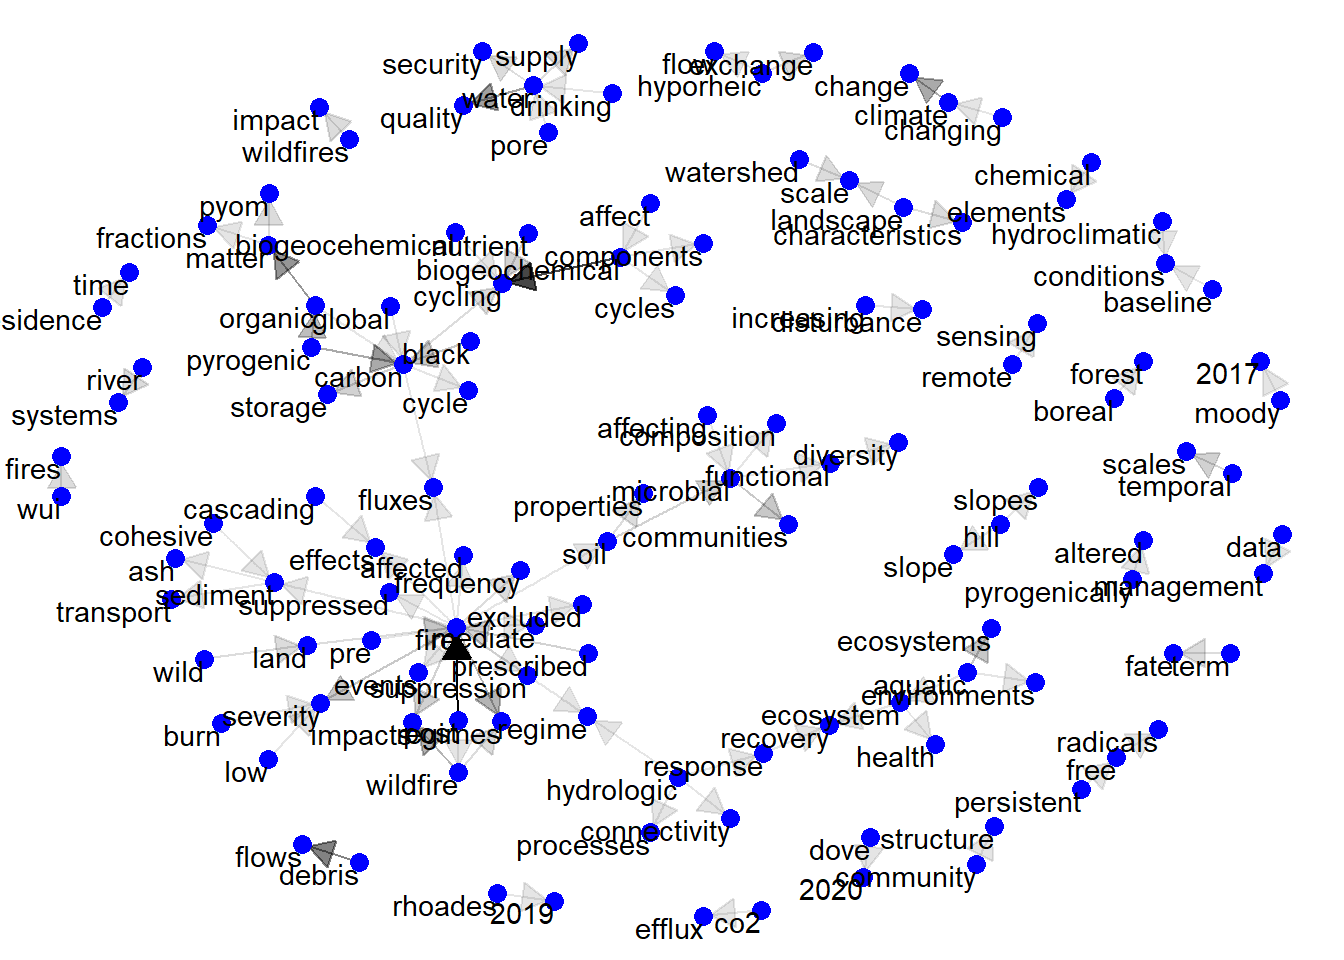
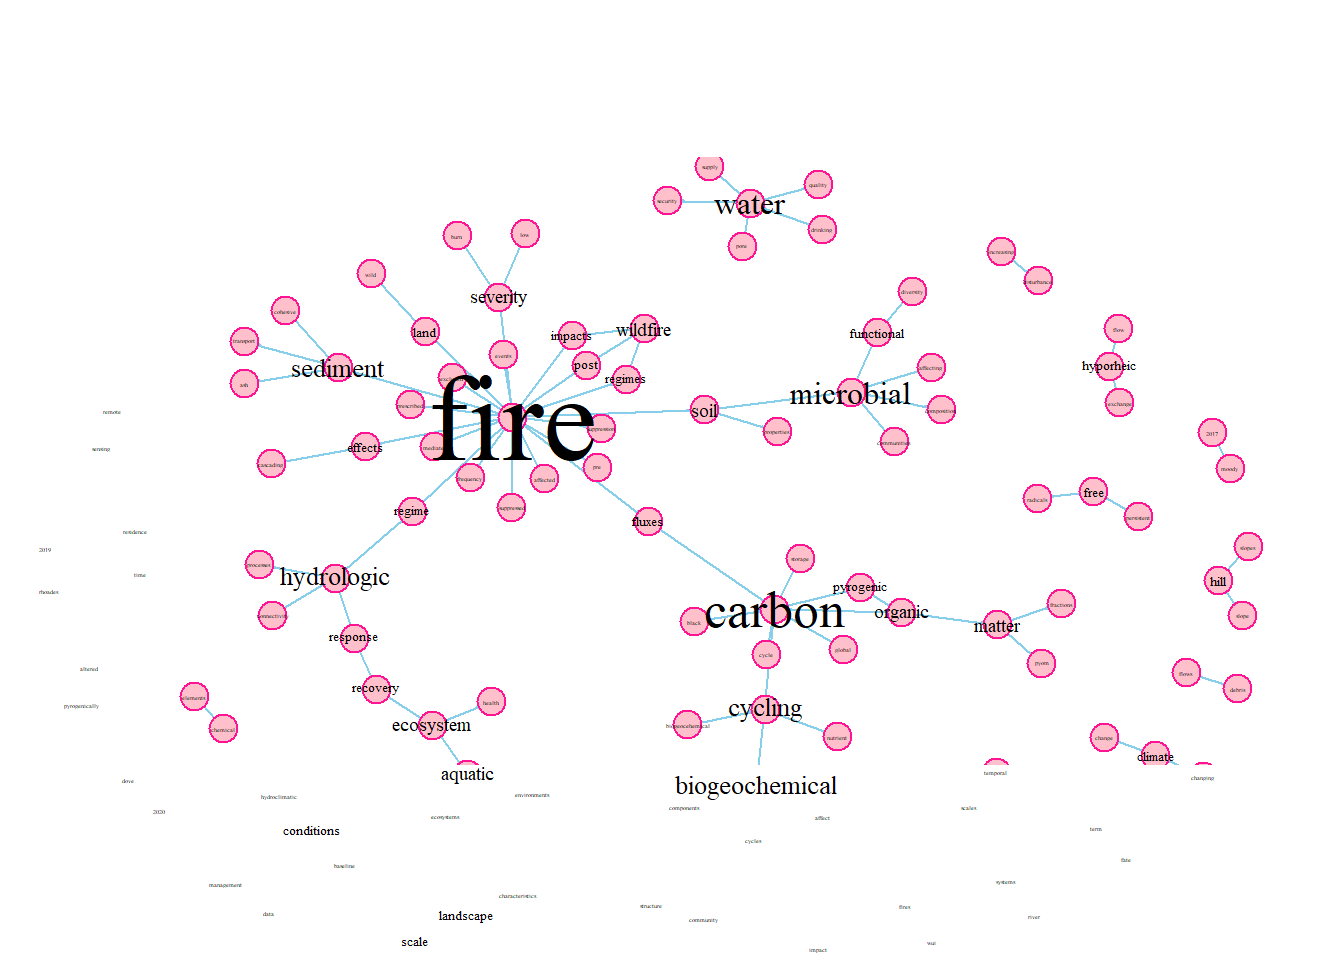
Updates in network plotting

diff --git a/wildfires_watersheds_rdocs/docs/eda_text.html b/wildfires_watersheds_rdocs/docs/eda_text.html
@@ -731,14 +731,26 @@ What is the role of hyporheic flow through wildfire-deposited or reworked sedime
 <section id="visualizing-a-network-of-bigrams-with-ggraph" class="level3">
 <h3 class="anchored" data-anchor-id="visualizing-a-network-of-bigrams-with-ggraph">Visualizing a network of bigrams with <code>ggraph</code></h3>
 <div class="cell">
-<div class="sourceCode cell-code" id="cb11"><pre class="sourceCode r code-with-copy"><code class="sourceCode r"><span id="cb11-1"><a href="#cb11-1" aria-hidden="true" tabindex="-1"></a>bigram_graph <span class="ot">&lt;-</span> pq_digrams <span class="sc">%&gt;%</span></span>
-<span id="cb11-2"><a href="#cb11-2" aria-hidden="true" tabindex="-1"></a>  <span class="fu">filter</span>(rank <span class="sc">&lt;</span> <span class="dv">101</span>) <span class="sc">%&gt;%</span></span>
-<span id="cb11-3"><a href="#cb11-3" aria-hidden="true" tabindex="-1"></a>  <span class="fu">graph_from_data_frame</span>()</span>
-<span id="cb11-4"><a href="#cb11-4" aria-hidden="true" tabindex="-1"></a>bigram_graph</span></code><button title="Copy to Clipboard" class="code-copy-button"><i class="bi"></i></button></pre></div>
+<div class="sourceCode cell-code" id="cb11"><pre class="sourceCode r code-with-copy"><code class="sourceCode r"><span id="cb11-1"><a href="#cb11-1" aria-hidden="true" tabindex="-1"></a><span class="fu">library</span>(igraph)</span>
+<span id="cb11-2"><a href="#cb11-2" aria-hidden="true" tabindex="-1"></a><span class="fu">library</span>(graphlayouts)</span>
+<span id="cb11-3"><a href="#cb11-3" aria-hidden="true" tabindex="-1"></a><span class="fu">library</span>(qgraph)</span></code><button title="Copy to Clipboard" class="code-copy-button"><i class="bi"></i></button></pre></div>
+<div class="cell-output cell-output-stderr">
+<pre><code>
+Attaching package: 'qgraph'</code></pre>
+</div>
+<div class="cell-output cell-output-stderr">
+<pre><code>The following object is masked from 'package:ggraph':
+
+    qgraph</code></pre>
+</div>
+<div class="sourceCode cell-code" id="cb14"><pre class="sourceCode r code-with-copy"><code class="sourceCode r"><span id="cb14-1"><a href="#cb14-1" aria-hidden="true" tabindex="-1"></a>bigram_graph <span class="ot">&lt;-</span> pq_digrams <span class="sc">%&gt;%</span></span>
+<span id="cb14-2"><a href="#cb14-2" aria-hidden="true" tabindex="-1"></a>  <span class="fu">filter</span>(rank <span class="sc">&lt;</span> <span class="dv">101</span>) <span class="sc">%&gt;%</span></span>
+<span id="cb14-3"><a href="#cb14-3" aria-hidden="true" tabindex="-1"></a>  <span class="fu">graph_from_data_frame</span>()</span>
+<span id="cb14-4"><a href="#cb14-4" aria-hidden="true" tabindex="-1"></a>bigram_graph</span></code><button title="Copy to Clipboard" class="code-copy-button"><i class="bi"></i></button></pre></div>
 <div class="cell-output cell-output-stdout">
-<pre><code>IGRAPH a294d09 DN-- 123 100 -- 
+<pre><code>IGRAPH 3409478 DN-- 123 100 -- 
 + attr: name (v/c), n (e/n), rank (e/n), total (e/n), t_freq (e/n)
-+ edges from a294d09 (vertex names):
++ edges from 3409478 (vertex names):
  [1] post          -&gt;fire        biogeochemical-&gt;cycling    
  [3] debris        -&gt;flows       organic       -&gt;matter     
  [5] water         -&gt;quality     climate       -&gt;change     
@@ -749,20 +761,32 @@ What is the role of hyporheic flow through wildfire-deposited or reworked sedime
 [15] carbon        -&gt;storage     fire          -&gt;impacts    
 + ... omitted several edges</code></pre>
 </div>
-<div class="sourceCode cell-code" id="cb13"><pre class="sourceCode r code-with-copy"><code class="sourceCode r"><span id="cb13-1"><a href="#cb13-1" aria-hidden="true" tabindex="-1"></a><span class="fu">set.seed</span>(<span class="dv">2017</span>)</span>
-<span id="cb13-2"><a href="#cb13-2" aria-hidden="true" tabindex="-1"></a></span>
-<span id="cb13-3"><a href="#cb13-3" aria-hidden="true" tabindex="-1"></a>a <span class="ot">&lt;-</span> grid<span class="sc">::</span><span class="fu">arrow</span>(<span class="at">type =</span> <span class="st">"closed"</span>, <span class="at">length =</span> <span class="fu">unit</span>(.<span class="dv">15</span>, <span class="st">"inches"</span>))</span>
-<span id="cb13-4"><a href="#cb13-4" aria-hidden="true" tabindex="-1"></a></span>
-<span id="cb13-5"><a href="#cb13-5" aria-hidden="true" tabindex="-1"></a><span class="fu">ggraph</span>(bigram_graph, <span class="at">layout =</span> <span class="st">"fr"</span>) <span class="sc">+</span></span>
-<span id="cb13-6"><a href="#cb13-6" aria-hidden="true" tabindex="-1"></a>  <span class="co"># geom_edge_link(show.legend = FALSE,</span></span>
-<span id="cb13-7"><a href="#cb13-7" aria-hidden="true" tabindex="-1"></a>  <span class="co">#                arrow = a, end_cap = circle(.07, 'inches')) +</span></span>
-<span id="cb13-8"><a href="#cb13-8" aria-hidden="true" tabindex="-1"></a>  <span class="fu">geom_edge_link</span>(<span class="fu">aes</span>(<span class="at">edge_alpha =</span> n), <span class="at">show.legend =</span> <span class="cn">FALSE</span>,</span>
-<span id="cb13-9"><a href="#cb13-9" aria-hidden="true" tabindex="-1"></a>                 <span class="at">arrow =</span> a, <span class="at">end_cap =</span> <span class="fu">circle</span>(.<span class="dv">035</span>, <span class="st">'inches'</span>)) <span class="sc">+</span></span>
-<span id="cb13-10"><a href="#cb13-10" aria-hidden="true" tabindex="-1"></a>  <span class="fu">geom_node_point</span>(<span class="at">color =</span> <span class="st">"blue"</span>, <span class="at">size =</span> <span class="dv">3</span>) <span class="sc">+</span></span>
-<span id="cb13-11"><a href="#cb13-11" aria-hidden="true" tabindex="-1"></a>  <span class="fu">geom_node_text</span>(<span class="fu">aes</span>(<span class="at">label =</span> name), <span class="at">vjust =</span> <span class="dv">1</span>, <span class="at">hjust =</span> <span class="dv">1</span>)<span class="sc">+</span></span>
-<span id="cb13-12"><a href="#cb13-12" aria-hidden="true" tabindex="-1"></a>  <span class="fu">theme_void</span>()</span></code><button title="Copy to Clipboard" class="code-copy-button"><i class="bi"></i></button></pre></div>
+<div class="sourceCode cell-code" id="cb16"><pre class="sourceCode r code-with-copy"><code class="sourceCode r"><span id="cb16-1"><a href="#cb16-1" aria-hidden="true" tabindex="-1"></a><span class="fu">set.seed</span>(<span class="dv">2017</span>)</span>
+<span id="cb16-2"><a href="#cb16-2" aria-hidden="true" tabindex="-1"></a></span>
+<span id="cb16-3"><a href="#cb16-3" aria-hidden="true" tabindex="-1"></a><span class="co"># a &lt;- grid::arrow(type = "closed", length = unit(.15, "inches"))</span></span>
+<span id="cb16-4"><a href="#cb16-4" aria-hidden="true" tabindex="-1"></a><span class="co"># </span></span>
+<span id="cb16-5"><a href="#cb16-5" aria-hidden="true" tabindex="-1"></a><span class="co"># ggraph(bigram_graph, layout = "fr") +</span></span>
+<span id="cb16-6"><a href="#cb16-6" aria-hidden="true" tabindex="-1"></a><span class="co">#   geom_edge_link(show.legend = FALSE,</span></span>
+<span id="cb16-7"><a href="#cb16-7" aria-hidden="true" tabindex="-1"></a><span class="co">#                  arrow = a, end_cap = circle(.07, 'inches')) +</span></span>
+<span id="cb16-8"><a href="#cb16-8" aria-hidden="true" tabindex="-1"></a><span class="co">#   geom_edge_link(aes(edge_alpha = n), show.legend = FALSE,</span></span>
+<span id="cb16-9"><a href="#cb16-9" aria-hidden="true" tabindex="-1"></a><span class="co">#                  arrow = a, end_cap = circle(.035, 'inches')) +</span></span>
+<span id="cb16-10"><a href="#cb16-10" aria-hidden="true" tabindex="-1"></a><span class="co">#   geom_node_point(color = "blue", size = 3) +</span></span>
+<span id="cb16-11"><a href="#cb16-11" aria-hidden="true" tabindex="-1"></a><span class="co">#   geom_node_text(aes(label = name), vjust = 1, hjust = 1)+</span></span>
+<span id="cb16-12"><a href="#cb16-12" aria-hidden="true" tabindex="-1"></a><span class="co">#   theme_void()</span></span>
+<span id="cb16-13"><a href="#cb16-13" aria-hidden="true" tabindex="-1"></a><span class="co"># V(bigram_graph)$size &lt;- V(bigram_graph)$t_freq*10</span></span>
+<span id="cb16-14"><a href="#cb16-14" aria-hidden="true" tabindex="-1"></a>l <span class="ot">&lt;-</span> <span class="fu">layout_with_fr</span>(bigram_graph)</span>
+<span id="cb16-15"><a href="#cb16-15" aria-hidden="true" tabindex="-1"></a>e <span class="ot">&lt;-</span> <span class="fu">get.edgelist</span>(bigram_graph,<span class="at">names=</span><span class="cn">FALSE</span>)</span>
+<span id="cb16-16"><a href="#cb16-16" aria-hidden="true" tabindex="-1"></a>m <span class="ot">&lt;-</span> <span class="fu">qgraph.layout.fruchtermanreingold</span>(e,<span class="at">vcount=</span><span class="fu">vcount</span>(bigram_graph))</span>
+<span id="cb16-17"><a href="#cb16-17" aria-hidden="true" tabindex="-1"></a>deg <span class="ot">&lt;-</span> <span class="fu">degree</span>(bigram_graph,<span class="at">mode=</span><span class="st">"all"</span>)</span>
+<span id="cb16-18"><a href="#cb16-18" aria-hidden="true" tabindex="-1"></a>fsize <span class="ot">&lt;-</span> <span class="fu">degree</span>(bigram_graph, <span class="at">mode=</span> <span class="st">"all"</span>)</span>
+<span id="cb16-19"><a href="#cb16-19" aria-hidden="true" tabindex="-1"></a></span>
+<span id="cb16-20"><a href="#cb16-20" aria-hidden="true" tabindex="-1"></a><span class="fu">plot</span>(bigram_graph,<span class="at">layout=</span>m, <span class="at">edge.arrow.size =</span>.<span class="dv">05</span>,<span class="at">vertex.color =</span> <span class="st">"pink"</span>, <span class="at">vertex.size =</span><span class="dv">500</span>,<span class="at">vertex.frame.color=</span><span class="st">"deeppink"</span>,<span class="at">vertex.label.color=</span><span class="st">"black"</span>, <span class="at">vertex.label.cex=</span>fsize<span class="sc">/</span><span class="dv">5</span>,<span class="at">vertex.label.dist=</span><span class="fl">0.8</span>,<span class="at">edge.curve =</span> <span class="fl">0.75</span>,<span class="at">edge.color=</span><span class="st">"skyblue"</span>,<span class="at">edge.label.family=</span><span class="st">"Arial"</span>, <span class="at">rescale=</span>F, <span class="at">axes =</span> <span class="cn">FALSE</span>, <span class="at">ylim =</span> <span class="fu">c</span>(<span class="sc">-</span><span class="dv">50</span>,<span class="dv">90</span>), <span class="at">xlim =</span> <span class="fu">c</span>(<span class="sc">-</span><span class="dv">55</span>,<span class="dv">120</span>), <span class="at">asp =</span><span class="dv">0</span>)</span></code><button title="Copy to Clipboard" class="code-copy-button"><i class="bi"></i></button></pre></div>
 <div class="cell-output-display">
 <p><img src="eda_text_files/figure-html/unnamed-chunk-15-1.png" class="img-fluid" width="672"></p>
+</div>
+<div class="sourceCode cell-code" id="cb17"><pre class="sourceCode r code-with-copy"><code class="sourceCode r"><span id="cb17-1"><a href="#cb17-1" aria-hidden="true" tabindex="-1"></a><span class="fu">plot</span>(bigram_graph,<span class="at">layout=</span>m, <span class="at">edge.arrow.size =</span>.<span class="dv">05</span>,<span class="at">vertex.color =</span> <span class="st">"pink"</span>, <span class="at">vertex.size =</span>deg<span class="sc">*</span><span class="dv">150</span>,<span class="at">vertex.frame.color=</span><span class="st">"deeppink"</span>,<span class="at">vertex.label.color=</span><span class="st">"black"</span>, <span class="at">vertex.label.cex=</span><span class="fl">0.55</span>,<span class="at">vertex.label.dist=</span><span class="fl">0.8</span>,<span class="at">edge.curve =</span> <span class="fl">0.75</span>,<span class="at">edge.color=</span><span class="st">"skyblue"</span>,<span class="at">edge.label.family=</span><span class="st">"Arial"</span>, <span class="at">rescale=</span>F, <span class="at">axes =</span> <span class="cn">FALSE</span>, <span class="at">ylim =</span> <span class="fu">c</span>(<span class="sc">-</span><span class="dv">50</span>,<span class="dv">90</span>), <span class="at">xlim =</span> <span class="fu">c</span>(<span class="sc">-</span><span class="dv">55</span>,<span class="dv">120</span>), <span class="at">asp =</span><span class="dv">0</span>)</span></code><button title="Copy to Clipboard" class="code-copy-button"><i class="bi"></i></button></pre></div>
+<div class="cell-output-display">
+<p><img src="eda_text_files/figure-html/unnamed-chunk-15-2.png" class="img-fluid" width="672"></p>
 </div>
 </div>
 <p>Editing network graphs: <a href="https://github.com/thomasp85/ggraph/issues/169">GitHub-Issue</a></p>
